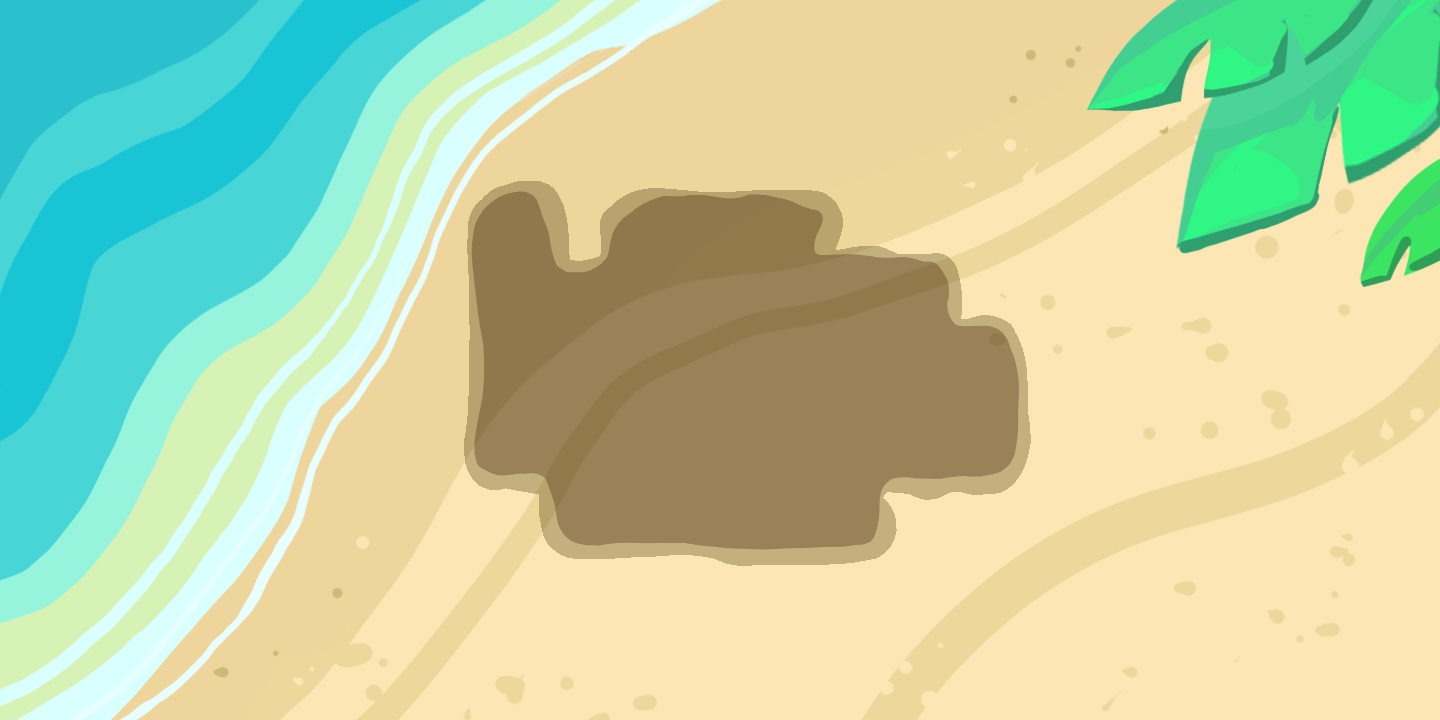
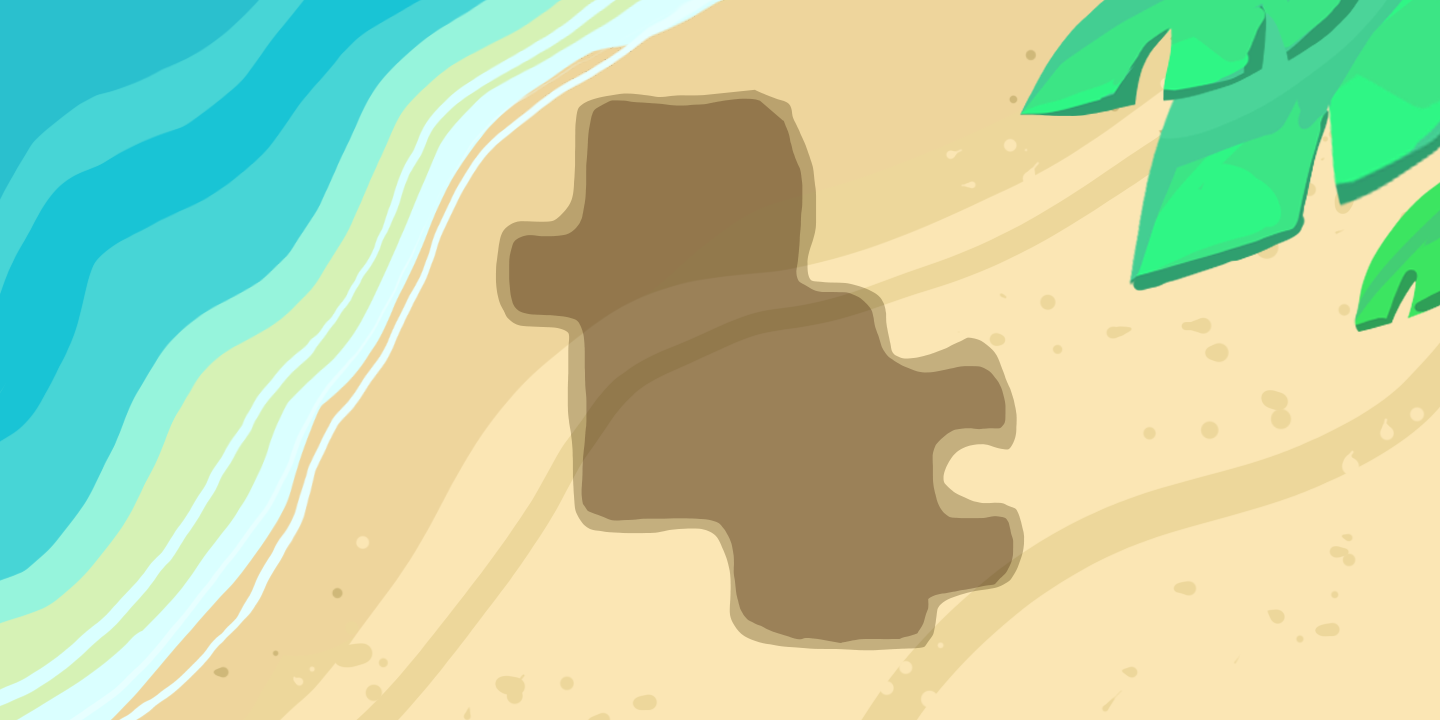
맵 수정..

Changed region(s): [[0.3125, 0.1222, 0.7188, 0.9167], [0.6875, 0.0, 1.0, 0.4583]]

diff --git a/display.h b/display.h
@@ -11,6 +11,8 @@ SDL_Texture* pc_img;
 SDL_Texture* map1_img;
 SDL_Texture* map2_img;
 SDL_Texture* map3_img;
+SDL_Texture* map4_img;
+SDL_Texture* map5_img;
 SDL_Texture* refrigerator_img;
 SDL_Texture* gildong_img;
 SDL_Texture* gildong_run_img;
@@ -35,6 +37,9 @@ void loadImg() {
 	map1_img = loadTexture("./assets/map1.png");
 	map2_img = loadTexture("./assets/map2.png");
 	map3_img = loadTexture("./assets/map3.png");
+	map4_img = loadTexture("./assets/map4.png");
+	map5_img = loadTexture("./assets/map5.png");
+
 
 	for (int i = 0; i <= 50; i++) {
 		char path[50];

diff --git a/util.h b/util.h
@@ -164,6 +164,14 @@ void drawStage(int isGildongRun, int idx) {
 
 	case 3:
 		drawTexture(map3_img, 0, 0);
+		break;\
+
+	case 4:
+		drawTexture(map4_img, 0, 0);
+		break;
+
+	case 5:
+		drawTexture(map5_img, 0, 0);
 		break;
 	}
 
